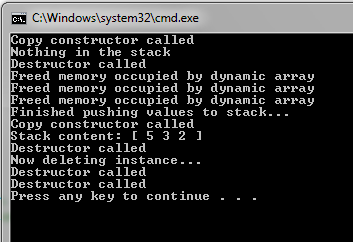
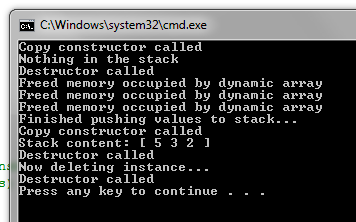
updated C++ destructor

diff --git a/DataStructuresAndAlgorithmsinC++/3_Classes_in_C++.md b/DataStructuresAndAlgorithmsinC++/3_Classes_in_C++.md
@@ -358,7 +358,11 @@ SomeClass::SomeClass(const SomeClass& initObj){
 
 ## Destructors
 
-Objects of a class are freed by the compiler by the use of a default destructor. 
+Objects of a class are freed by the compiler by the use of a default destructor. Like 
+constructors and copy constructors, destructors are defined but generally not called
+explicitly. They are defined by the programmer for the application to call upon when needed.
+
+
 If the object is referenced via a pointer then the object resides in the heap.
 The `delete` keyword is used to release data from the heap referenced by a 
 pointer and, as explained below, also invokes the destructor should it be applied to an object.
@@ -550,6 +554,7 @@ IntegerStack::IntegerStack(const IntegerStack &origObj){
 
 IntegerStack::~IntegerStack(){
 	std::cout << "Destructor called" << std::endl;
+	delete [] this->p;
 }
 
 void printStack(IntegerStack object){
@@ -654,15 +659,15 @@ int main(){
 	printStack(instance);
 
 	std::cout << "Now deleting instance..." << std::endl;
-
-	// this is called twice at this point
-	instance.~IntegerStack();
 }
 ```
 
 The above example produces the following output:
 
 ![](./images/integer_stack.PNG)
+
+Notice how the destructor was called when the copied instances and ```main()``` instance went out 
+of scope.
 
 ## Operator overloading
 
